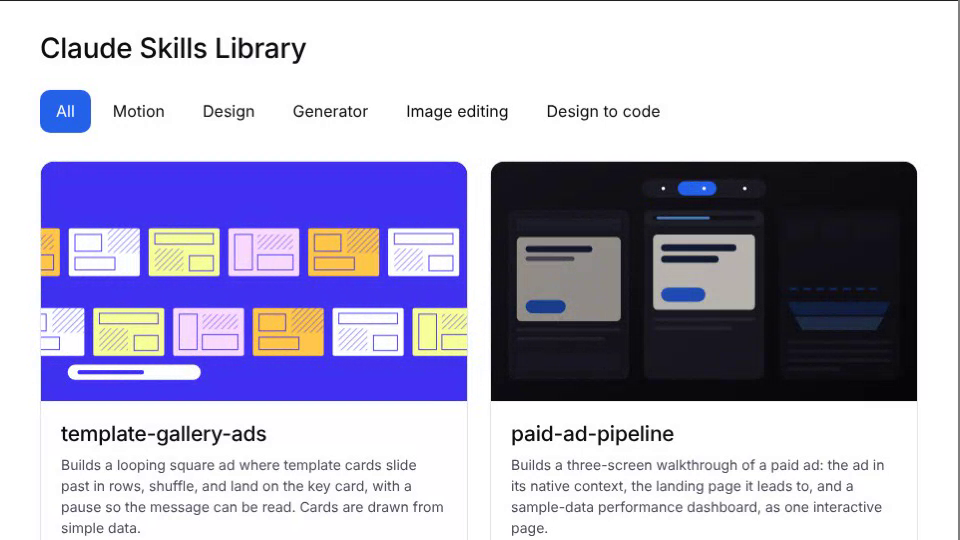
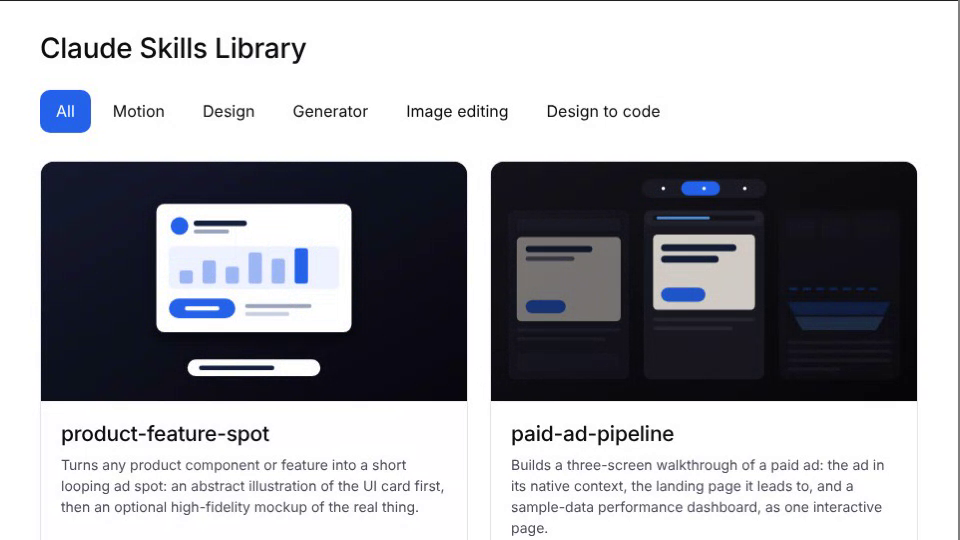
Skills Library: rename template-gallery-ads to product-feature-spot and generalize it
Claude-Session: https://claude.ai/code/session_01AHeBdzfwQsZW7SD9XQB6B1

diff --git a/skills-library/index.html b/skills-library/index.html
@@ -106,12 +106,12 @@ var ICON={
 };
 var SKILLS=[
   {
-    title:'template-gallery-ads',
-    desc:'Builds a looping square ad where template cards slide past in rows, shuffle, and land on the key card, with a pause so the message can be read. Cards are drawn from simple data.',
+    title:'product-feature-spot',
+    desc:'Turns any product component or feature into a short looping ad spot: an abstract illustration of the UI card first, then an optional high-fidelity mockup of the real thing.',
     category:'Motion', cIcon:'motion',
-    use:'Product and template ads', uIcon:'mockup',
-    art:'art/template-gallery-ads.svg',
-    alt:'Two rows of colourful wireframe template cards slide past in opposite directions on a blue background with a caption bar below'
+    use:'Short feature ad spots', uIcon:'mockup',
+    art:'art/product-feature-spot.svg',
+    alt:'A flat wireframe illustration of a UI card resolves into a high-fidelity mockup of the same card, with a caption bar below'
   },
   {
     title:'paid-ad-pipeline',
@@ -240,7 +240,6 @@ function render(){
 tabs.addEventListener('click',function(e){var b=e.target.closest('.tab');if(b){cur=b.dataset.c;render()}});
 render();
 var EX={
-'template-gallery-ads':[['https://kristynagottvald.github.io/#lob','Lob: template gallery ads','examples/lob-template-gallery-ads.webp','examples/lob-template-gallery-ads.webp']],
 'fields-scan-overlay-effect':[['https://kristynagottvald.github.io/#805157303765614592','Reprise: Build better demos with AI','examples/reprise-fields-scan.webp','examples/reprise-fields-scan.webp']],
 'industry-swapper':[['https://kristynagottvald.github.io/sketches/direct-mail-engine/','Industry Swapper Plug-in','https://kristynagottvald.github.io/sketches/clips/direct-mail-engine.webp','https://kristynagottvald.github.io/sketches/direct-mail-engine/thumbnail.jpg']],
 'metacognitive-prompt-rewriter':[['https://kristynagottvald.github.io/sketches/prompt-machine/','Metacognitive Prompt Helper','https://kristynagottvald.github.io/sketches/clips/prompt-machine.webp','https://kristynagottvald.github.io/sketches/prompt-machine/thumbnail.jpg']],
@@ -253,9 +252,9 @@ var EX={
 'asset-generator-engine':[['blog-banner-studio','Blog Banner Studio'],['conference-post-generator','Conference Post Creator'],['lifecycle-image-engine','Lifecycle Image Studio'],['hero-banner-engine','Banner Template Studio'],['postmark-ribbon-engine','Postmark Awards Ribbon Engine'],['grubclub-end-card','Grubclub End Card Maker'],['https://kristynagottvald.github.io/sketches/ribbon-text/','Postmark Awards','https://kristynagottvald.github.io/sketches/clips/ribbon-text.webp','https://kristynagottvald.github.io/sketches/ribbon-text/thumbnail.jpg'],['https://kristynagottvald.github.io/sketches/pattern-generator/','Pattern Generator','https://kristynagottvald.github.io/sketches/clips/pattern-generator.webp','https://kristynagottvald.github.io/sketches/pattern-generator/thumbnail.jpg']]};
 var RM=window.matchMedia&&matchMedia('(prefers-reduced-motion: reduce)').matches;
 var D={
-'template-gallery-ads':{saves:'Animating every template card and the gallery around it by hand',work:["Drawing each template card separately, then recolouring it for every ad","Keyframing rows of cards sliding, shuffling and landing on the key one","Hand-timing the pause on the key card and the loop point, then re-exporting each square or hero version"],
- p:["This skill builds the Lob template gallery ads: a square, looping ad in which rows of template cards slide past, shuffle into a pile and land on the one that matters. It is written in p5.js on a single 720 by 720 canvas, with one timeline that repeats.","The cards are not drawn one by one. Each template is a small piece of data: a background colour, a line colour and a layout, where the layout is a list of boxes, hatched picture areas and lines given as fractions of the card. One drawing routine turns that data into a card at any size, position and tilt, so a new template is a few lines of data, and the whole ad stays on the brand palette.","The timing is handled in code too. A looping clock holds for a moment once the shuffle lands, so the message can be read, then carries on. Easing helpers give slides a smooth stop and cards a small pop. A companion version adds a gallery grid and a hero mode that plays a little faster, holds its final frame so a slideshow can fade out, and closes on the logo."],
- prompts:["Use template-gallery-ads to build a looping square ad with rows of template cards sliding past and landing on one.","Define each template as data (background, line colour and a layout of boxes and hatched areas) and draw every card from it.","Add a pause on the key card so the message can be read, and a hero mode that holds the final frame."]},
+'product-feature-spot':{saves:'Designing and animating a feature ad from scratch each time',work:["Drawing an abstract version of the component, then a polished mockup of the real feature, by hand","Keyframing how the illustration builds, moves and resolves into the mockup","Timing the pause on the key moment and the loop point, then re-exporting every size"],
+ p:["This skill turns any product component or feature into a short, looping ad spot. It starts with an abstract illustration of the UI card or component: flat outlined boxes, hatched picture areas and simple lines, in a few brand colours, so the idea reads at a glance.","The illustration is built from data rather than drawn piece by piece. Each one is a small description: a background colour, a line colour and a layout of boxes, hatched areas and lines placed as fractions of the card. One drawing routine turns that into a card at any size, position and tilt, so a new component is a few lines of data and everything stays on palette.","If you want, the spot then resolves into a high-fidelity mockup of the actual product feature. It runs on one looping timeline that pauses on the key moment so the message can be read, with smooth easing and short captions. It works for any size, and can hold its final frame so the spot fades cleanly into the next."],
+ prompts:["Use product-feature-spot to turn this component into a short looping ad spot: [describe the component or feature].","Draw the component as an abstract illustration from data (background, line colour and a layout of boxes and hatched areas), then resolve it into a high-fidelity mockup.","Add a pause on the key moment so the message can be read, and hold the final frame."]},
 'paid-ad-pipeline':{saves:'Mocking up an ad, its landing page and its results as separate designs',work:["Designing the ad in its real platform context, with the surrounding content","Building a matching landing page and keeping its headline and tracking links in step with the ad","Making a performance dashboard whose numbers all add up, then checking it on desktop and phone"],
  p:["This skill builds a paid ad walkthrough as one interactive page, in three screens with a toggle at the top. The ad can be on LinkedIn, Google search, Instagram feed or reel, TikTok, or a display ad sitting on a related article.","The first screen shows the ad in its natural setting, with the surrounding content dimmed. Clicking the ad takes you to the second screen: the landing page in browser chrome, with the tracking parameters shown and a headline that matches the ad. The third screen is a performance dashboard marked “Sample data”, with headline numbers, a daily trend, a funnel from click to conversion, a table per variant, breakdown bars and landing page health.","You tell it the platform, the brand, the offer and goal, the audience or variants, and whether to use a real landing page or build a mock. Every number on the dashboard is worked out from impressions, click rate, cost per click and conversion rate, so the figures always agree. It checks the result at desktop width and at 390px wide, then publishes it."],
  prompts:["Use the paid-ad-pipeline skill to build a paid ad pipeline walkthrough as one interactive Artifact. Platform: linkedin. Brand: [name]. Offer and goal: [what the ad promises, and the conversion].","Build a three-screen paid ad walkthrough for an Instagram reel ad with a mock landing page and a sample-data dashboard.","Make a display ad walkthrough on a related article page, with four audience variants in the dashboard."]},
